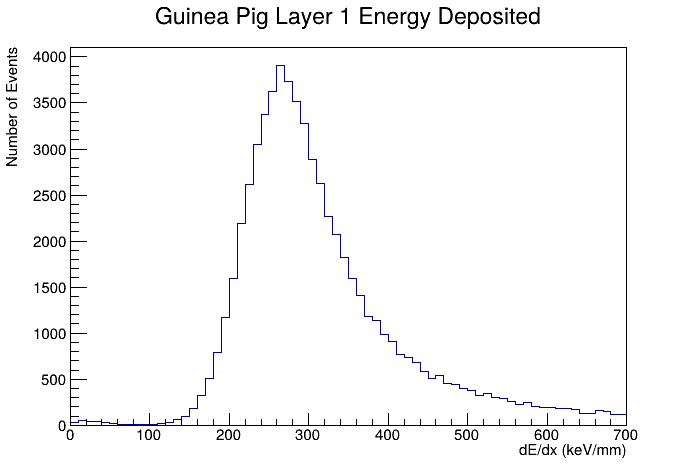
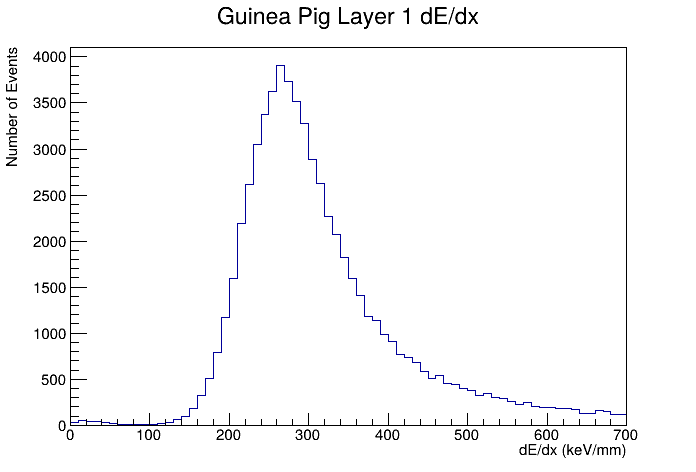
updated energy deposited and mc energy plots

Changed region(s): [[0.2112, 0.0, 0.7845, 0.0593]]

diff --git a/python/mc_energy_plotter.py b/python/mc_energy_plotter.py
@@ -7,16 +7,14 @@ podio_reader = root_io.Reader(input_file_path)
 events = podio_reader.get("events")
 
 energies = []
-momentums = []
 
 for event in events:
     for particle in event.get("MCParticles"):
         if particle.getGeneratorStatus() != 1:
             continue
         energies.append(1000*particle.getEnergy())
-        momentums.append(1000*np.sqrt(particle.getMomentum().x**2 + particle.getMomentum().y**2 + particle.getMomentum().z**2))
 
-energy_hist = ROOT.TH1F("energy", "Monte Carlo All Particles Energy", 500, 0, 50)
+energy_hist = ROOT.TH1F("energy", "Monte Carlo All Particles Energy", 300, 0, 15)
 for e in energies:
     energy_hist.Fill(e)
 energy_hist.GetXaxis().SetTitle("Energy (MeV)")
@@ -25,13 +23,3 @@ energy_canvas = ROOT.TCanvas("energy", "Monte Carlo All Particles Energy")
 energy_hist.Draw()
 energy_canvas.Update()
 energy_canvas.SaveAs("../plots/monte_carlo/guinea_pig_all_energy.png")
-
-momentum_hist = ROOT.TH1F("momentum", "Monte Carlo All Particles Momentum", 500, 0, 50)
-for p in momentums:
-    momentum_hist.Fill(p)
-momentum_hist.GetXaxis().SetTitle("Momentum (MeV)")
-momentum_hist.GetYaxis().SetTitle("Number of Particles")
-momentum_canvas = ROOT.TCanvas("momentum", "Monte Carlo All Particles Momentum")
-momentum_hist.Draw()
-momentum_canvas.Update()
-momentum_canvas.SaveAs("../plots/monte_carlo/guinea_pig_all_momentum.png")

diff --git a/python/energy_deposited_plotter.py b/python/energy_deposited_plotter.py
@@ -56,7 +56,7 @@ ROOT.gStyle.SetPalette(ROOT.kRainBow)
 # creates histogram for each layer
 for layer_index in range(5):
     cos_map_hist = ROOT.TH2F("events", f"Guinea Pig Layer {layer_index + 1} Energy Deposited and Cosine Theta", 100, 0, 1, 100, 0, 100)
-    hist = ROOT.TH1F("energy", f"Guinea Pig Layer {layer_index + 1} Energy Deposited", 70, 0, 700)
+    hist = ROOT.TH1F("energy", f"Guinea Pig Layer {layer_index + 1} dE/dx", 70, 0, 700)
     phis, zs = [], []
 
     for hit in layers[layer_radii[layer_index]]:
